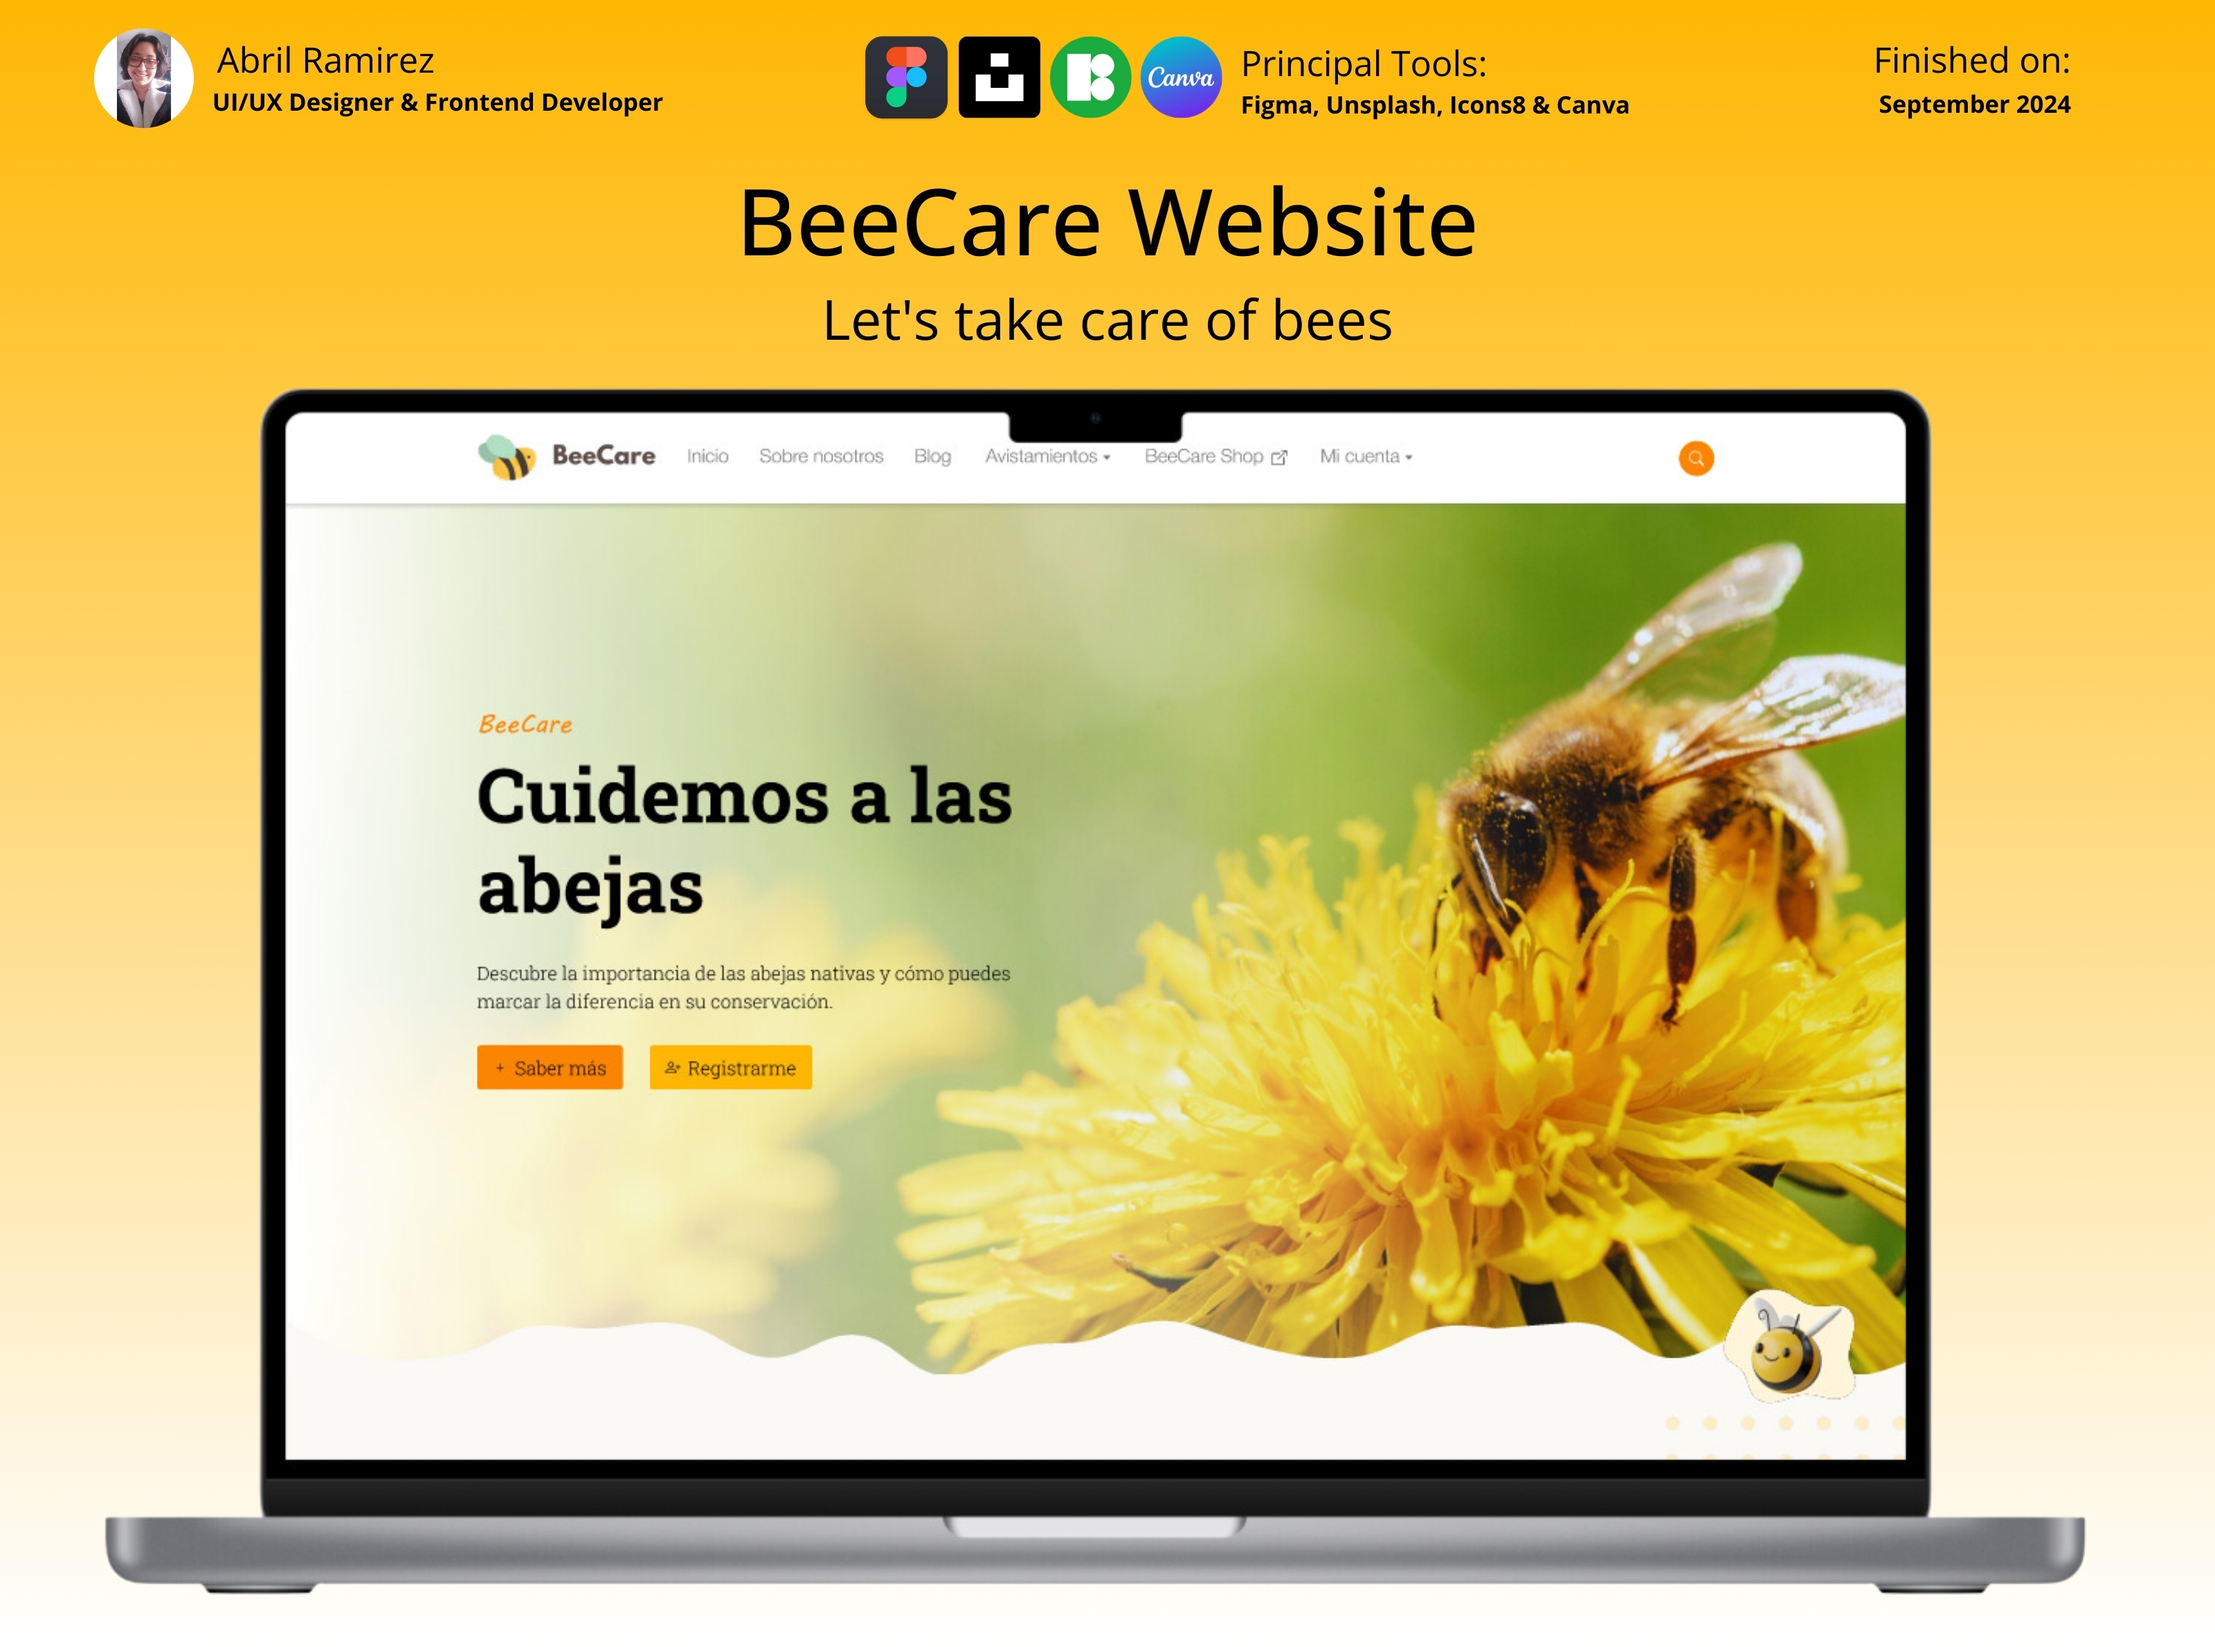
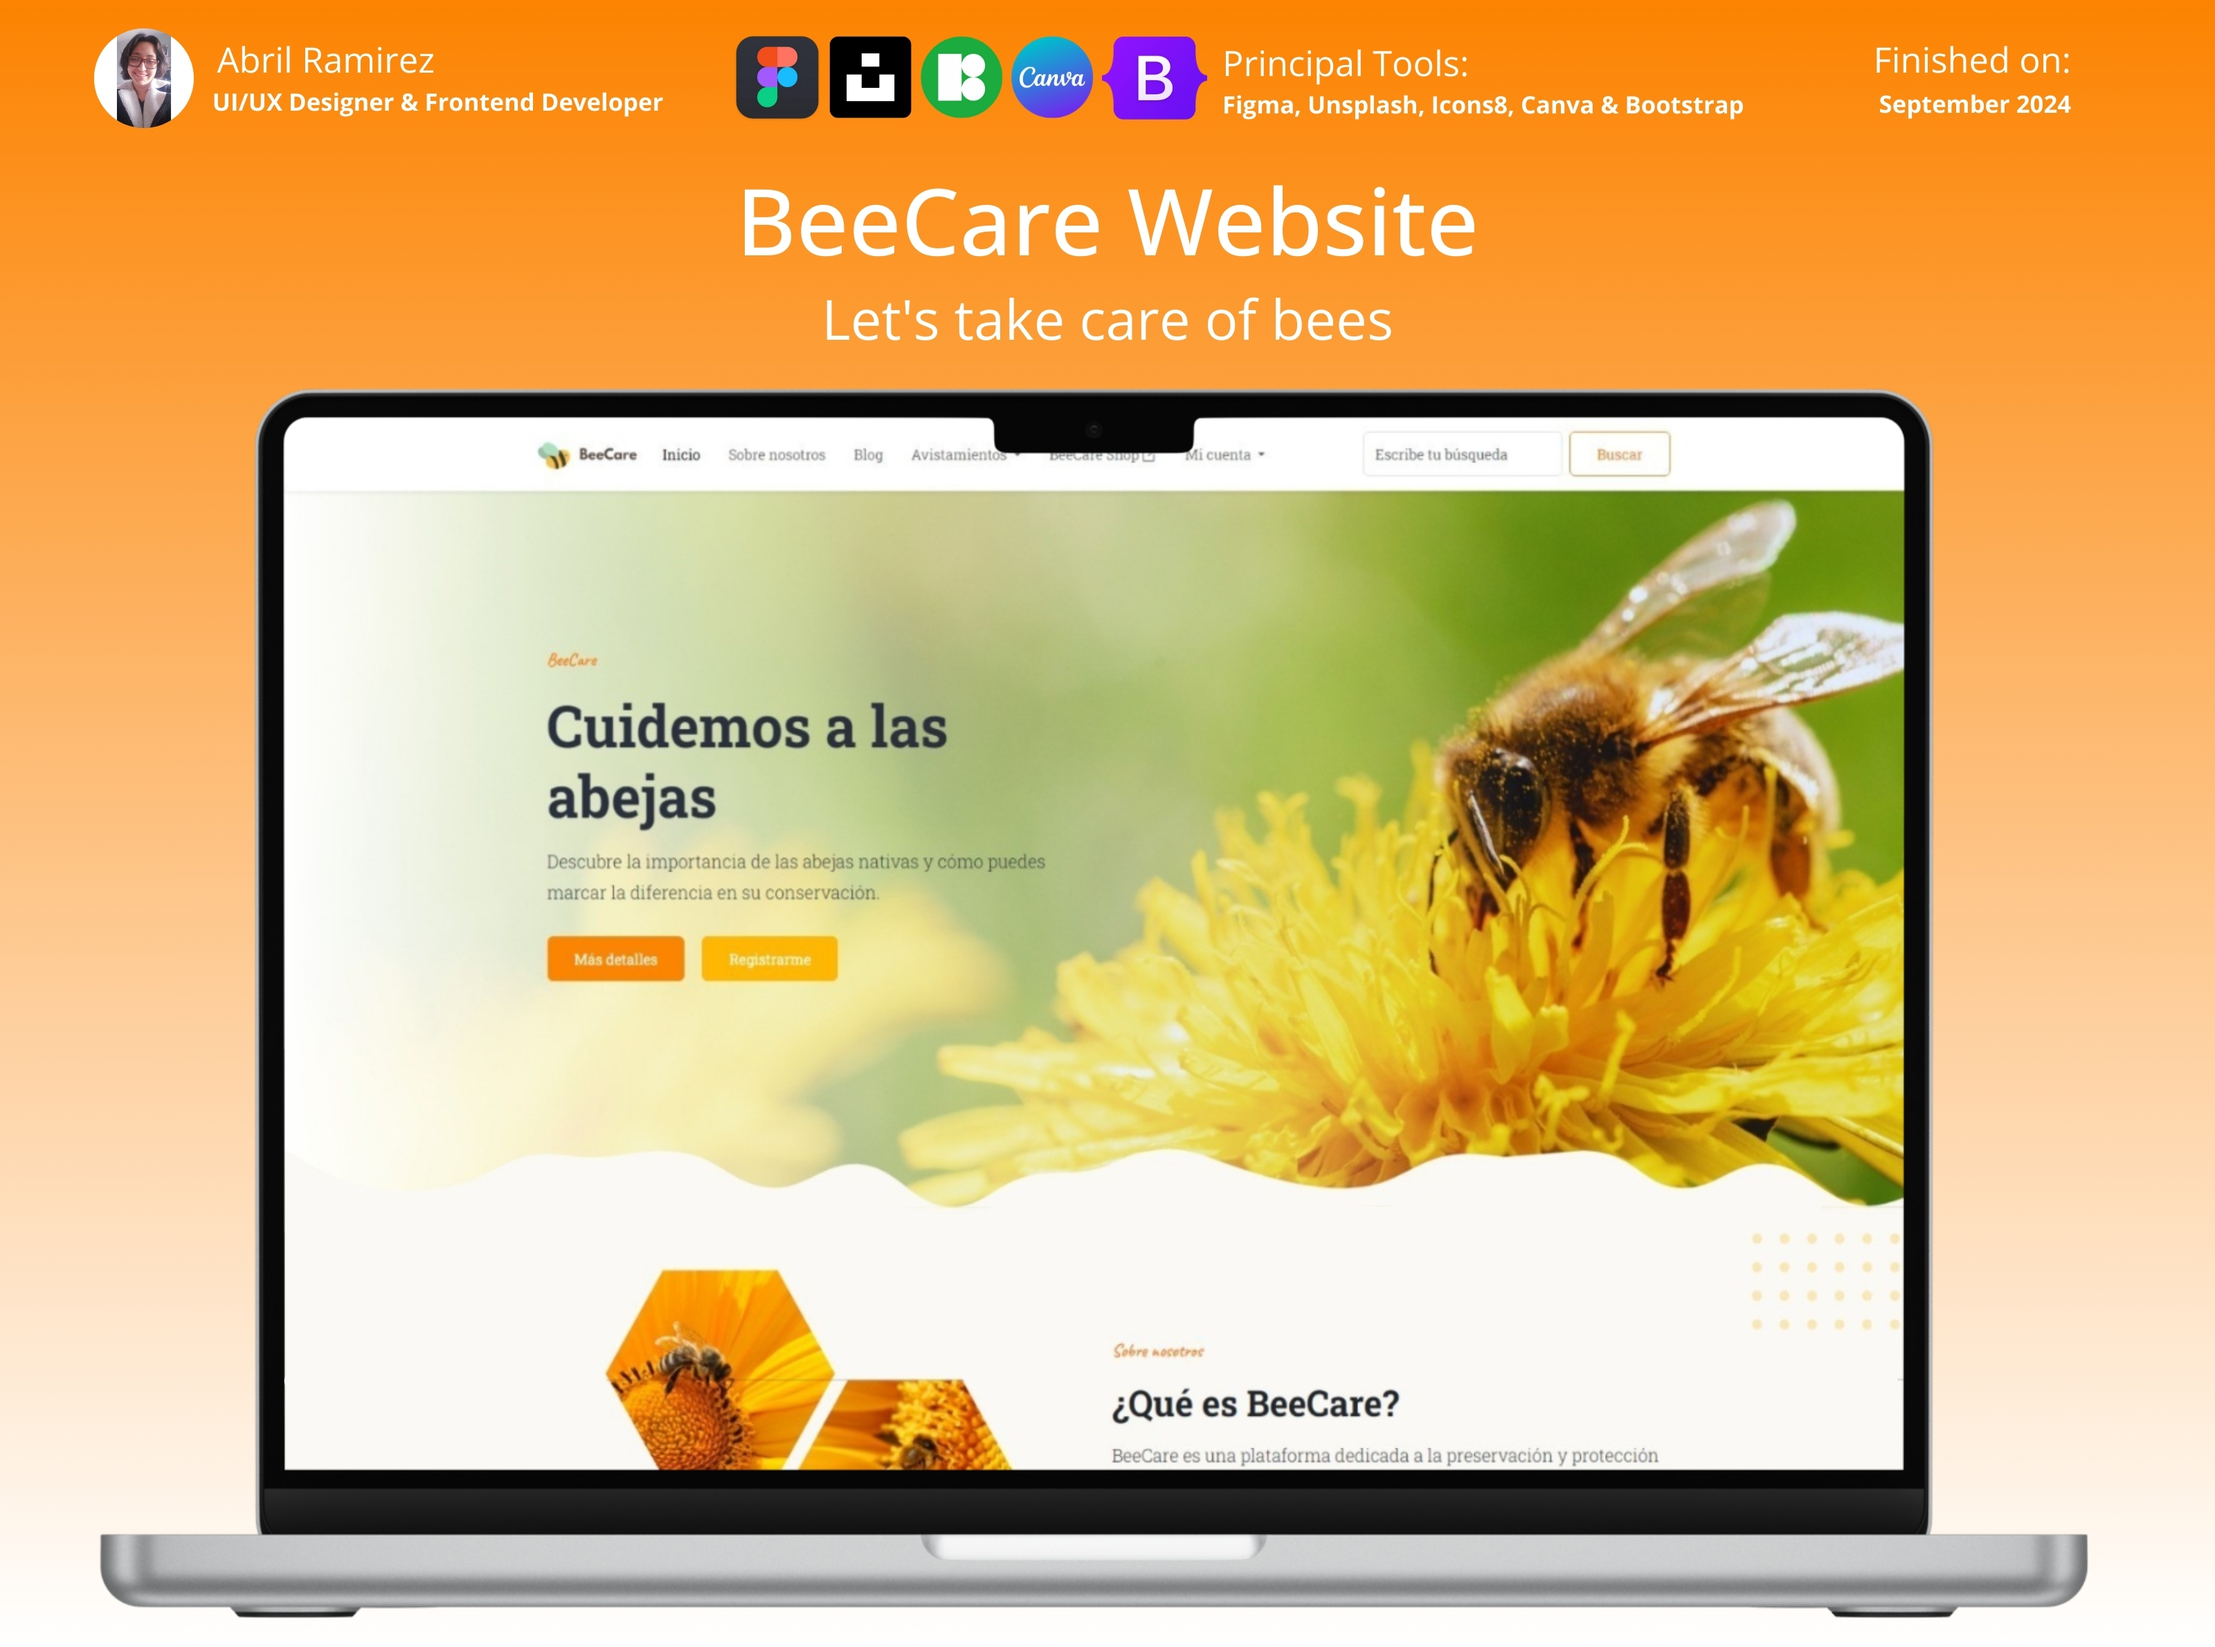
New project added to portfolio.

diff --git a/index.html b/index.html
@@ -552,11 +552,12 @@
                                         <i class="fa fa-calendar"></i> Sep 2024
                                     </div>
                                 </div>
-                                <p>Figma UI/UX Design</p>
+                                <p>Figma, HTML, CSS, JS & Bootstrap</p>
 
                                 <div class="portfolio-buttons">
                                     <a href="https://www.behance.net/gallery/207404251/BeeCare-Website-UIUX-Design" target="_blank" class="btn"><i class="fa-brands fa-behance"></i>View</a>
-                                    <a href="https://www.figma.com/proto/AhuUDen5aarYm9Plez4WfV/Project-07---BeeCare-Redesign?page-id=1%3A4&node-id=13-1755&node-type=canvas&viewport=205%2C307%2C0.06&t=65oKRsA0otHnnsqB-1&scaling=scale-down&content-scaling=fixed&starting-point-node-id=13%3A1755" target="_blank" class="btn"><i class="fa-brands fa-figma"></i>Demo</a>
+                                    <a href="https://glassesfriends.github.io/BeeCare_website_redesign/" target="_blank" class="btn"><i class="fa-solid fa-play"></i>Demo</a>
+                                    <a href="https://github.com/GlassesFriends/BeeCare_website_redesign" target="_blank" class="btn"><i class="fa-brands fa-github"></i>Code</a>
                                 </div>
                             </div>
                         </div>
